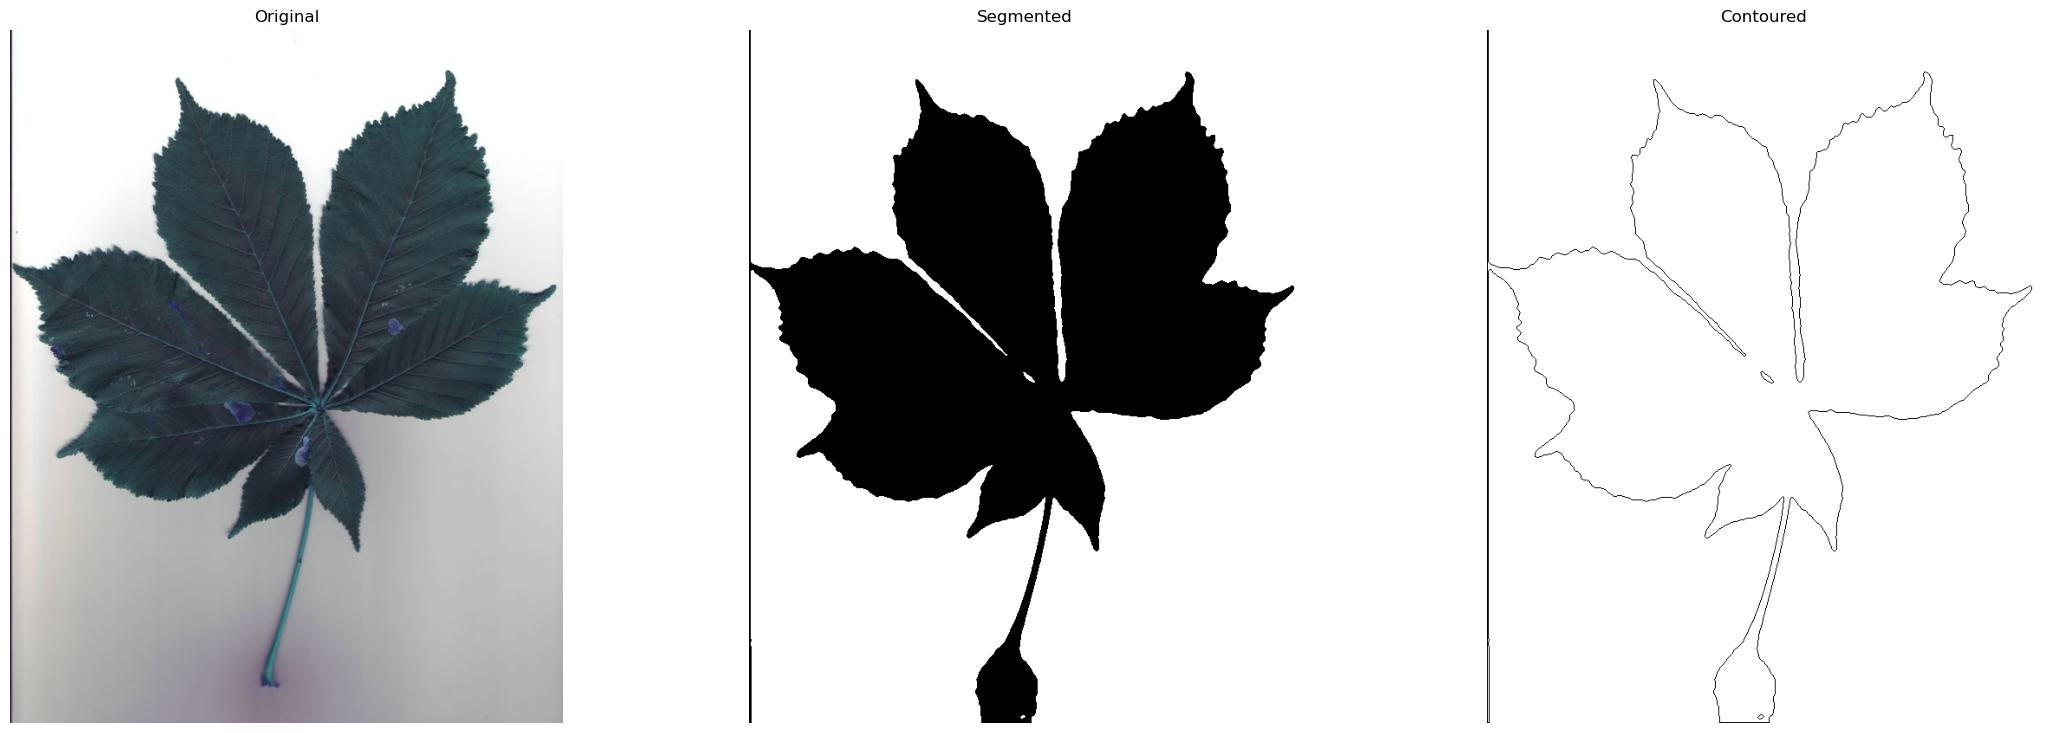
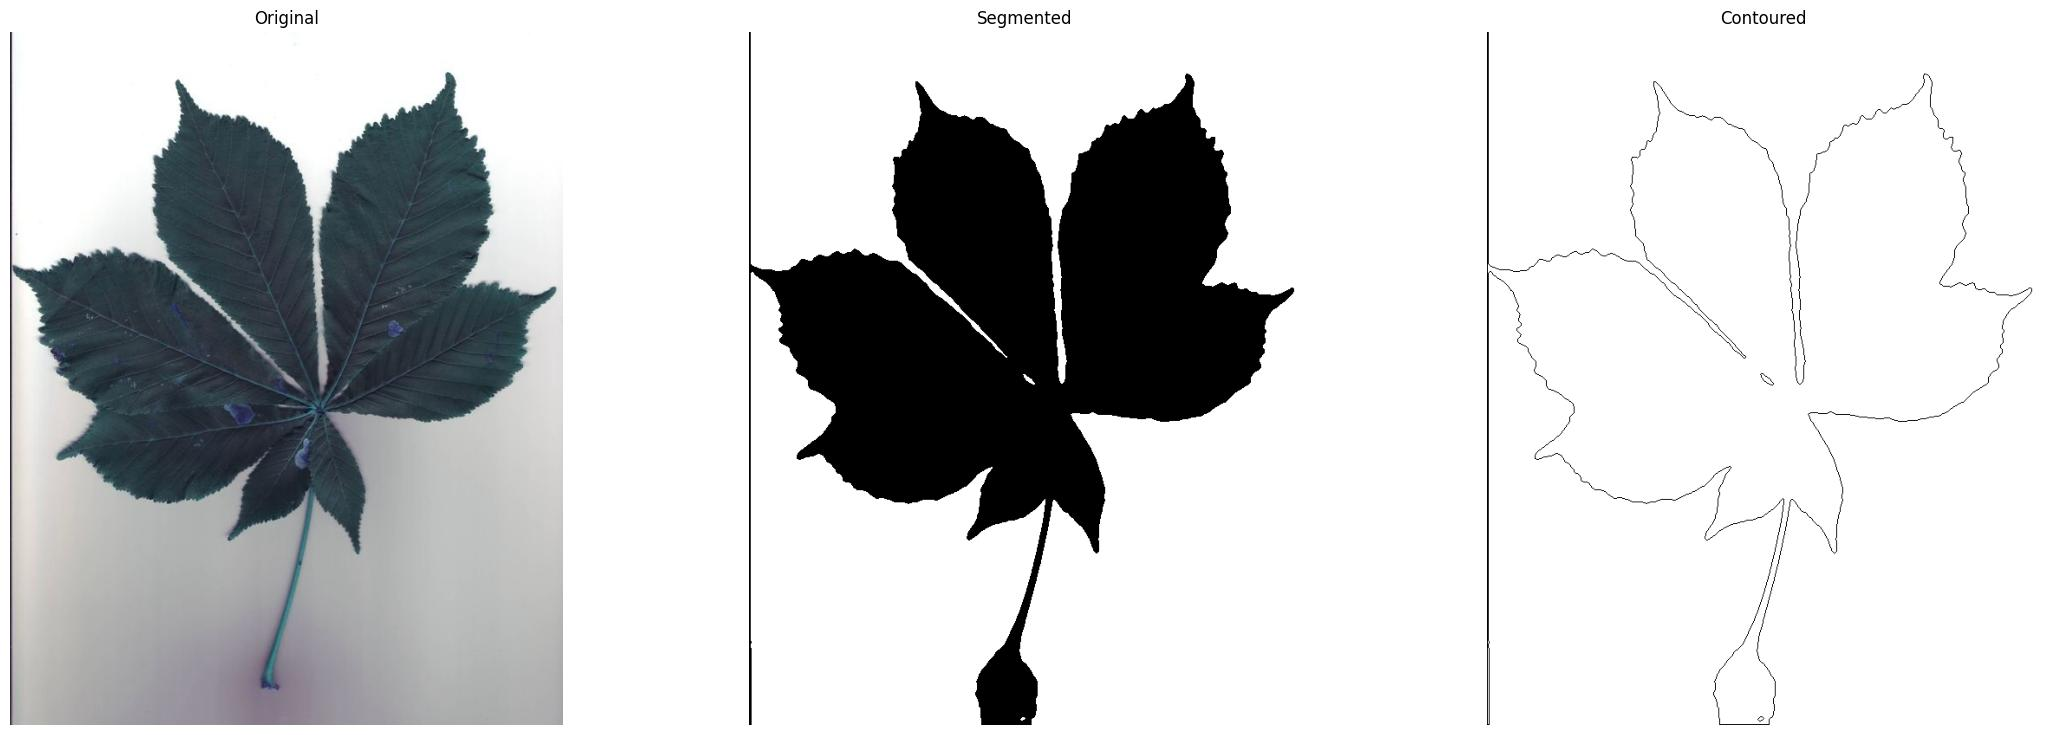
Hw3 small changes

diff --git a/Homework 3/main.py b/Homework 3/main.py
@@ -3,7 +3,7 @@ import matplotlib.pyplot as plt
 import matplotlib as mpl
 import numpy as np
 import os
-# read al the images form input_images folder
+
 image_names = os.listdir("input_images/")
 image_locations = ["input_images/" + name for name in image_names]
 
@@ -14,18 +14,18 @@ for name, path in zip(image_names, image_locations):
 
     img = cv2.cvtColor(img, cv2.COLOR_BGR2GRAY)
     img = cv2.GaussianBlur(img, (5,5), 0)
-    ret, thresh = cv2.threshold(img, 0, 255, cv2.THRESH_BINARY + cv2.THRESH_OTSU)
+    ret, segmented = cv2.threshold(img, 0, 255, cv2.THRESH_BINARY + cv2.THRESH_OTSU)
 
-    contours, hierarchy = cv2.findContours(255-thresh, cv2.RETR_TREE, cv2.CHAIN_APPROX_SIMPLE)
+    contours, hierarchy = cv2.findContours(cv2.bitwise_not(segmented), cv2.RETR_TREE, cv2.CHAIN_APPROX_SIMPLE)
 
-    contoured_image = cv2.drawContours(np.zeros(thresh.shape, np.uint8), contours, -1, 255, 1)
+    contoured_image = cv2.drawContours(np.zeros(segmented.shape, np.uint8), contours, -1, 255, 1)
     contoured_image = cv2.bitwise_not(contoured_image)
     fig, axs = plt.subplots(1, 3, figsize=(27, 9))
     axs[0].imshow(img_orig)
     axs[0].set_title("Original")
     axs[0].axis('off')
 
-    axs[1].imshow(thresh, cmap=mpl.cm.gray)
+    axs[1].imshow(segmented, cmap=mpl.cm.gray)
     axs[1].set_title("Segmented")
     axs[1].axis('off')
 
